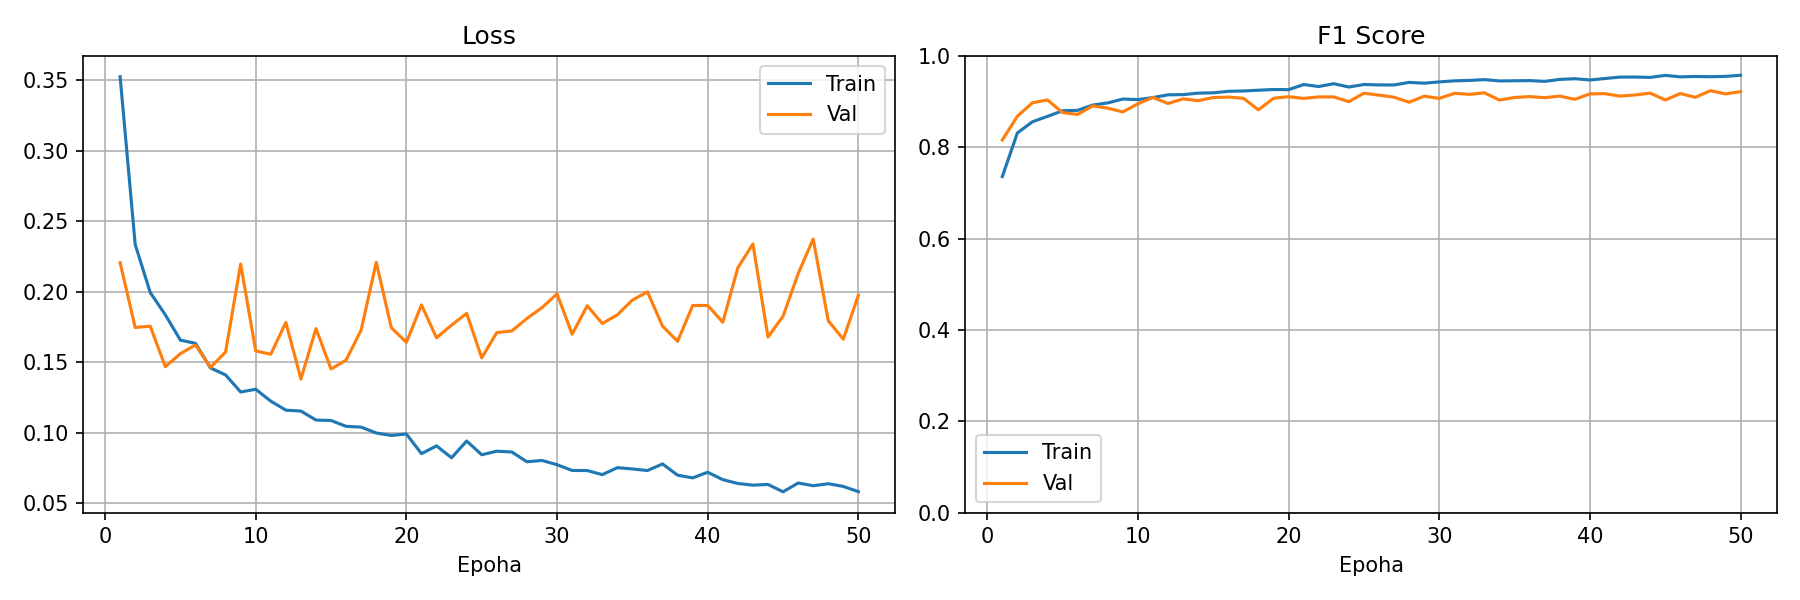
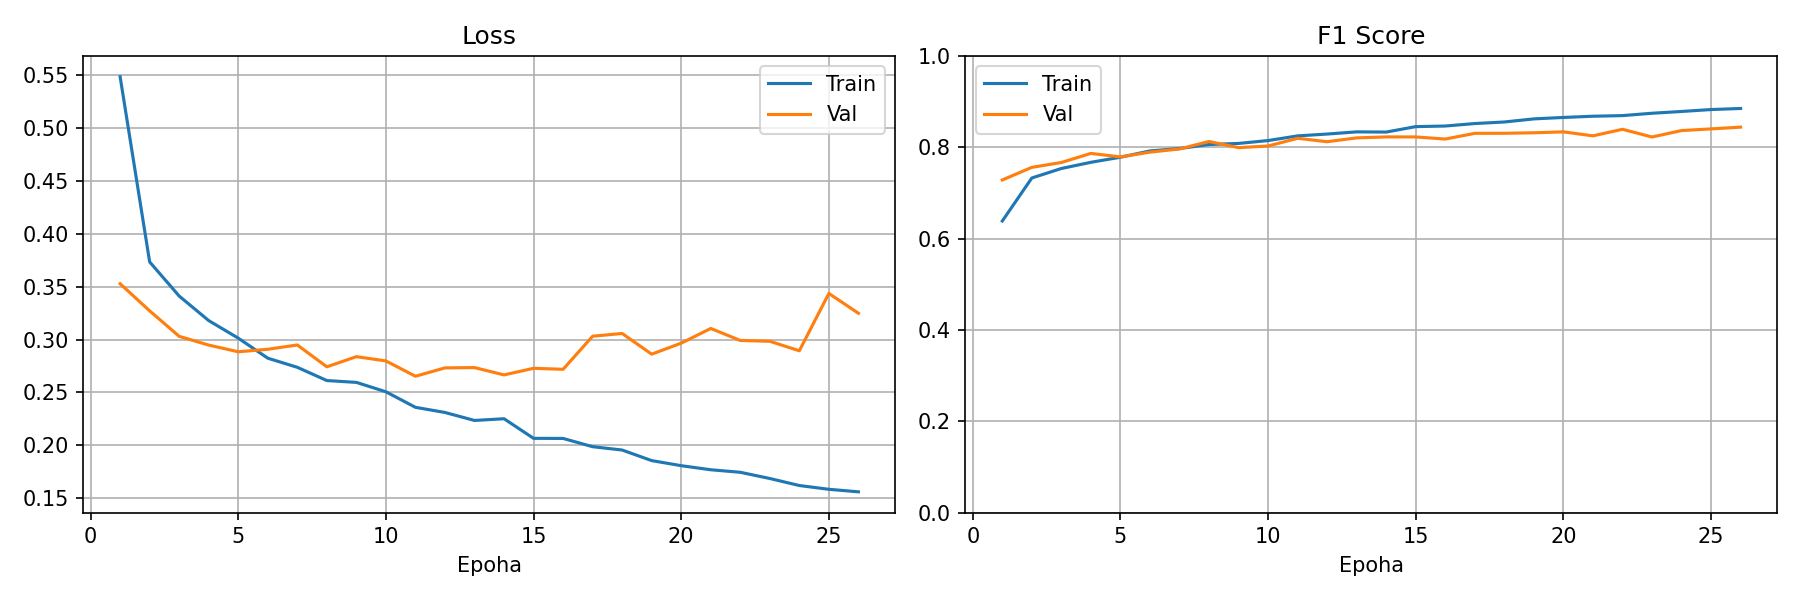
added topological ordering in prerequisits

diff --git a/scripts/generate_dataset.py b/scripts/generate_dataset.py
@@ -91,8 +91,8 @@ def random_implications(items, min_impl=0, max_impl=None):
         impl_reduced: minimalne implikacije - za adj matricu
     """
 
-    # TODO: nikad necemo imati (4,0) implikaciju ovo izmeniti mozda
-    possible = [(i, j) for i in range(items) for j in range(i + 1, items)]
+    topo = np.random.permutation(items)
+    possible = [(int(topo[i]), int(topo[j])) for i in range(items) for j in range(i + 1, items)]
 
     if max_impl is None:
         max_impl = len(possible)